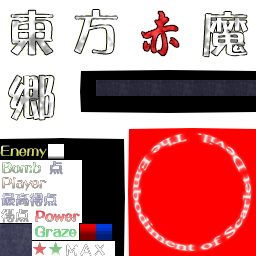
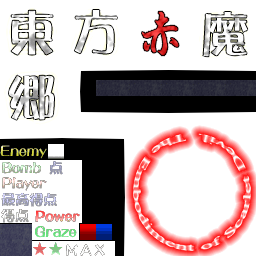
HUD

Changed region(s): [[0.4688, 0.4688, 1.0, 1.0]]

diff --git a/src/com/han/game/main/GamePanel.java b/src/com/han/game/main/GamePanel.java
@@ -319,12 +319,11 @@ public class GamePanel extends JPanel implements Runnable, KeyListener, MouseLis
 				////////////////////////////////////////////
 				int i = 60;
 				g.drawImage(menu, 0, 0, 850, 1000, 0, 0, 640, 480, null);
-				g.drawImage(title, 1, 1, 128, 128, 0, 0, 64, 64, null);
-				g.drawImage(title, 71 + i, 10, 198 + i, 137, 64, 0, 128, 64, null);
-				g.drawImage(title, 141 + 2 * i, 10, 268 + 4 * i, 128 + i,
-						128, 0, 192, 64, null);
-				g.drawImage(title, 211 + 5 * i, 10, 338 + 5 * i, 137, 192, 0, 256, 64, null);
-				g.drawImage(title, 281 + 6 * i, 10, 408 + 6 * i, 137, 0, 64, 64, 128, null);
+				g.drawImage(title, 1, 1, 128, 128, 0, 0, 64, 64, null); // 东
+				g.drawImage(title, 71 + i, 10, 198 + i, 137, 64, 0, 128, 64, null); // 方
+				g.drawImage(title, 141 + 2 * i, 10, 268 + 4 * i, 128 + i, 128, 0, 192, 64, null); // 红
+				g.drawImage(title, 211 + 5 * i, 10, 338 + 5 * i, 137, 192, 0, 256, 64, null); // 魔
+				g.drawImage(title, 281 + 6 * i, 10, 408 + 6 * i, 137, 0, 64, 64, 128, null); // 乡
 				// 按钮
 				g.drawImage(start, 600, 400, 800, 500, 0, 0, 100, 32, null);
 				g.drawImage(help, 600, 530, 800, 630, 0, 0, 52, 32, null);
@@ -568,7 +567,7 @@ public class GamePanel extends JPanel implements Runnable, KeyListener, MouseLis
 	public void paintScore(Graphics2D g) {
 		g.setColor(new Color(0xAAAAAA));
 		Paint gp = g.getPaint();
-		GradientPaint newGp = new GradientPaint(0,0,Color.WHITE,0,8,new Color(0xAAAAAA));
+		GradientPaint newGp = new GradientPaint(0,0,Color.WHITE,0,15,new Color(0x888888));
 		g.setPaint(newGp);
 		g.setFont(new Font("Sylfaen", Font.BOLD, 20));
 
@@ -576,10 +575,27 @@ public class GamePanel extends JPanel implements Runnable, KeyListener, MouseLis
 		// this.drawTransparentImage(g, Color.BLACK, frontImg, 600, 200, 631, 617, 0, 207, 31, 224);
 		// this.drawTransparentImage(g, new Color(0,0,0), frontImg, 600, 200, 631, 217, 0, 207, 31, 224);
 		g.drawImage(frontImg, 600, 200, 631, 217, 0, 207, 31, 224, null);
-		this.drawStringEx(g, "" + player.getPower(), 660, 300, Color.WHITE, 0.5F);
-		g.drawImage(frontImg, 600, 300, 648, 317, 34, 207, 82, 224, null);
-		this.drawStringEx(g, "" + player.getBoom(), 660, 400, Color.WHITE, 0.5F);
-		g.drawImage(frontImg, 600, 400, 644, 417, 0, 160, 44, 177, null);
+		if (player.getPower() < 15) {
+            this.drawStringEx(g, "" + player.getPower(), 660, 250, Color.WHITE, 0.5F);
+        } else {
+		    g.drawImage(frontImg, 660, 255, 704, 268, 64, 244, 108, 258, null);
+        }
+		g.drawImage(frontImg, 600, 250, 648, 267, 34, 207, 82, 224, null);
+		this.drawStringEx(g, "" + player.getBoom(), 660, 300, Color.WHITE, 0.5F);
+		g.drawImage(frontImg, 600, 300, 644, 317, 0, 160, 44, 177, null);
+
+        // 标题字体
+        ImageIcon imageicon = new ImageIcon(getClass().getResource("/images/front.png"));
+        Image title = imageicon.getImage();
+        int i = 60;
+        g.drawImage(title, 590, 350, 791, 551, 125, 125, 255, 255, null); // 圈
+        g.drawImage(title, 590, 350, 654, 414, 0, 0, 64, 64, null); // 东
+        g.drawImage(title, 660, 350, 724, 414, 64, 0, 128, 64, null); // 方
+        g.drawImage(title, 630, 390, 757, 507, 128, 0, 192, 64, null); // 红
+        g.drawImage(title, 670, 480, 734, 544, 192, 0, 256, 64, null); // 魔
+        g.drawImage(title, 740, 480, 804, 544, 0, 64, 64, 128, null); // 乡
+
+
 		// g.drawStringEx("现在可以按键暂停：ESC", 580, 700);
 		g.setFont(new Font("Kaiti", Font.BOLD, 20));
 		this.drawStringEx(g, "现在可以按键暂停：ESC", 580, 700, Color.WHITE, 0.5F);
